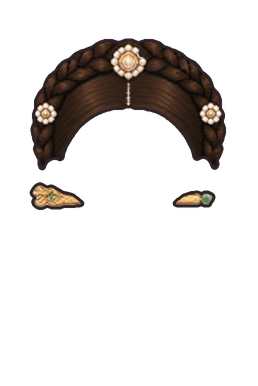
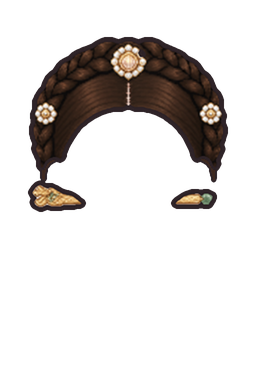
쪽머리 두 개에 구레나룻(귀 앞 머리 띠) 추가 / 다시 그린 신발 3개(흰 곰 슬리퍼·검정 로우 캔버스화·갈색 로퍼)와 회색 트레이닝 바지를 예전 자리에 / 신발 '민트 캔버스화' 추가
Claude-Session: https://claude.ai/code/session_015VxnKS3baGbwJXJNNp74ix

diff --git a/index.html b/index.html
@@ -1668,7 +1668,7 @@
     <button class="danger" onclick="resetEverything()">모든 데이터 초기화</button>
   </section>
 </div>
-<script src="avatar.js?v=51"></script><!-- 아바타를 고치면 avatar.js의 AV_V와 같이 숫자를 올림 -->
+<script src="avatar.js?v=52"></script><!-- 아바타를 고치면 avatar.js의 AV_V와 같이 숫자를 올림 -->
 <script>
 setTimeout(() => document.body.classList.add("ready"), 2000); // 혹시 아래에서 오류가 나도 2초 뒤엔 카드를 보여 줌
 // 다른 창(듀얼 모니터)으로 뗀 카드: { 카드: { w: 창, c: 카드, mark: 보드에 돌아올 자리, np: 글자 도구 창 } }

diff --git a/student.html b/student.html
@@ -159,7 +159,7 @@
     </div>
   </div>
 </div>
-<script src="avatar.js?v=51"></script><!-- 아바타를 고치면 avatar.js의 AV_V와 같이 숫자를 올림 -->
+<script src="avatar.js?v=52"></script><!-- 아바타를 고치면 avatar.js의 AV_V와 같이 숫자를 올림 -->
 <script type="module">
 // 서버: classes/{반 코드} = { unit, prices } · classes/{반 코드}/kids/{번호}-{비밀번호} = { n, pt, av, wear, own, buys, kidAt } (이름 없음)
 // 점수는 선생님 보드만 바꿈. 가게 물건은 입어 보기만 하다가 저장할 때 삼(buys에 남김). 선생님 보드가 받아서 점수를 뺌

diff --git a/av/hairuser.py b/av/hairuser.py
@@ -122,3 +122,19 @@ for f in glob.glob('raw_user/pet-*-2x.png'):
   for _ in range(2): out |= ndimage.binary_dilation(out) & (a[..., :3].min(-1) > 170) & (a[..., 3] > 0)
   a[out, 3] = 0; im = Image.fromarray(a.round().clip(0, 255).astype(np.uint8)).resize((258, 416), Image.LANCZOS)
   bb = im.getbbox(); dy = min(0, 426 - (40 + bb[3]) - 2); c = Image.new('RGBA', (378, 426)); c.alpha_composite(im, (60, 40 + dy)); c.save(f'{n}.png', optimize=True)
+# 쪽머리 구레나룻: 귀 앞 얼굴 가장자리에 머리 띠(위는 넓고 아래는 뾰족)를 매끈하게 붙이고 테두리를 다시 그림 (대머리 가발처럼 안 보이게)
+SIDEBURN = [30, 31]
+B = np.array(Image.open('base-0.png'))[..., 3] > 128; Bd = ndimage.distance_transform_edt(B)  # 머리 가장자리에서 안쪽으로 거리
+for k in SIDEBURN:
+  h = np.array(Image.open(f'hair-{k}.png').convert('RGBA')).astype(float); H = h[..., 3] > 128
+  hair = h[H & (h[..., :3].max(-1) < 120) & (h[..., :3].max(-1) > 45)][:, :3]; col = np.median(hair, 0)  # 머리카락 색 (장식·테두리 빼고)
+  Y, X = np.mgrid[:386, :258]; Y0, Y1 = 90, 184
+  t = np.clip((Y - Y0) / (Y1 - Y0), 0, 1); w = 16 * (1 - t) ** .8 + 1  # 띠 두께
+  band = B & (Bd < w) & (Y >= Y0) & (Y < Y1) & (np.abs(X - 128.5) > 40)
+  band = ndimage.gaussian_filter(band.astype(float), 1.2) > .5
+  add = band & ~H; h[add, :3] = col; h[add, 3] = 255
+  M = (h[..., 3] > 128) | band
+  big = np.array(Image.fromarray(h.round().clip(0, 255).astype(np.uint8)).resize((516, 772), Image.LANCZOS)).astype(float)
+  Mb = np.array(Image.fromarray((M * 255).astype(np.uint8)).resize((516, 772), Image.LANCZOS)) > 128
+  c2, a2 = uniform(Mb, big[..., :3], 2, R=2.0, D=0)  # 테두리만 새로 (원래 그림 안쪽은 그대로)
+  Image.fromarray(np.dstack([c2, a2 * 255]).round().clip(0, 255).astype(np.uint8)).resize((258, 386), Image.LANCZOS).save(f'hair-{k}.png', optimize=True)
